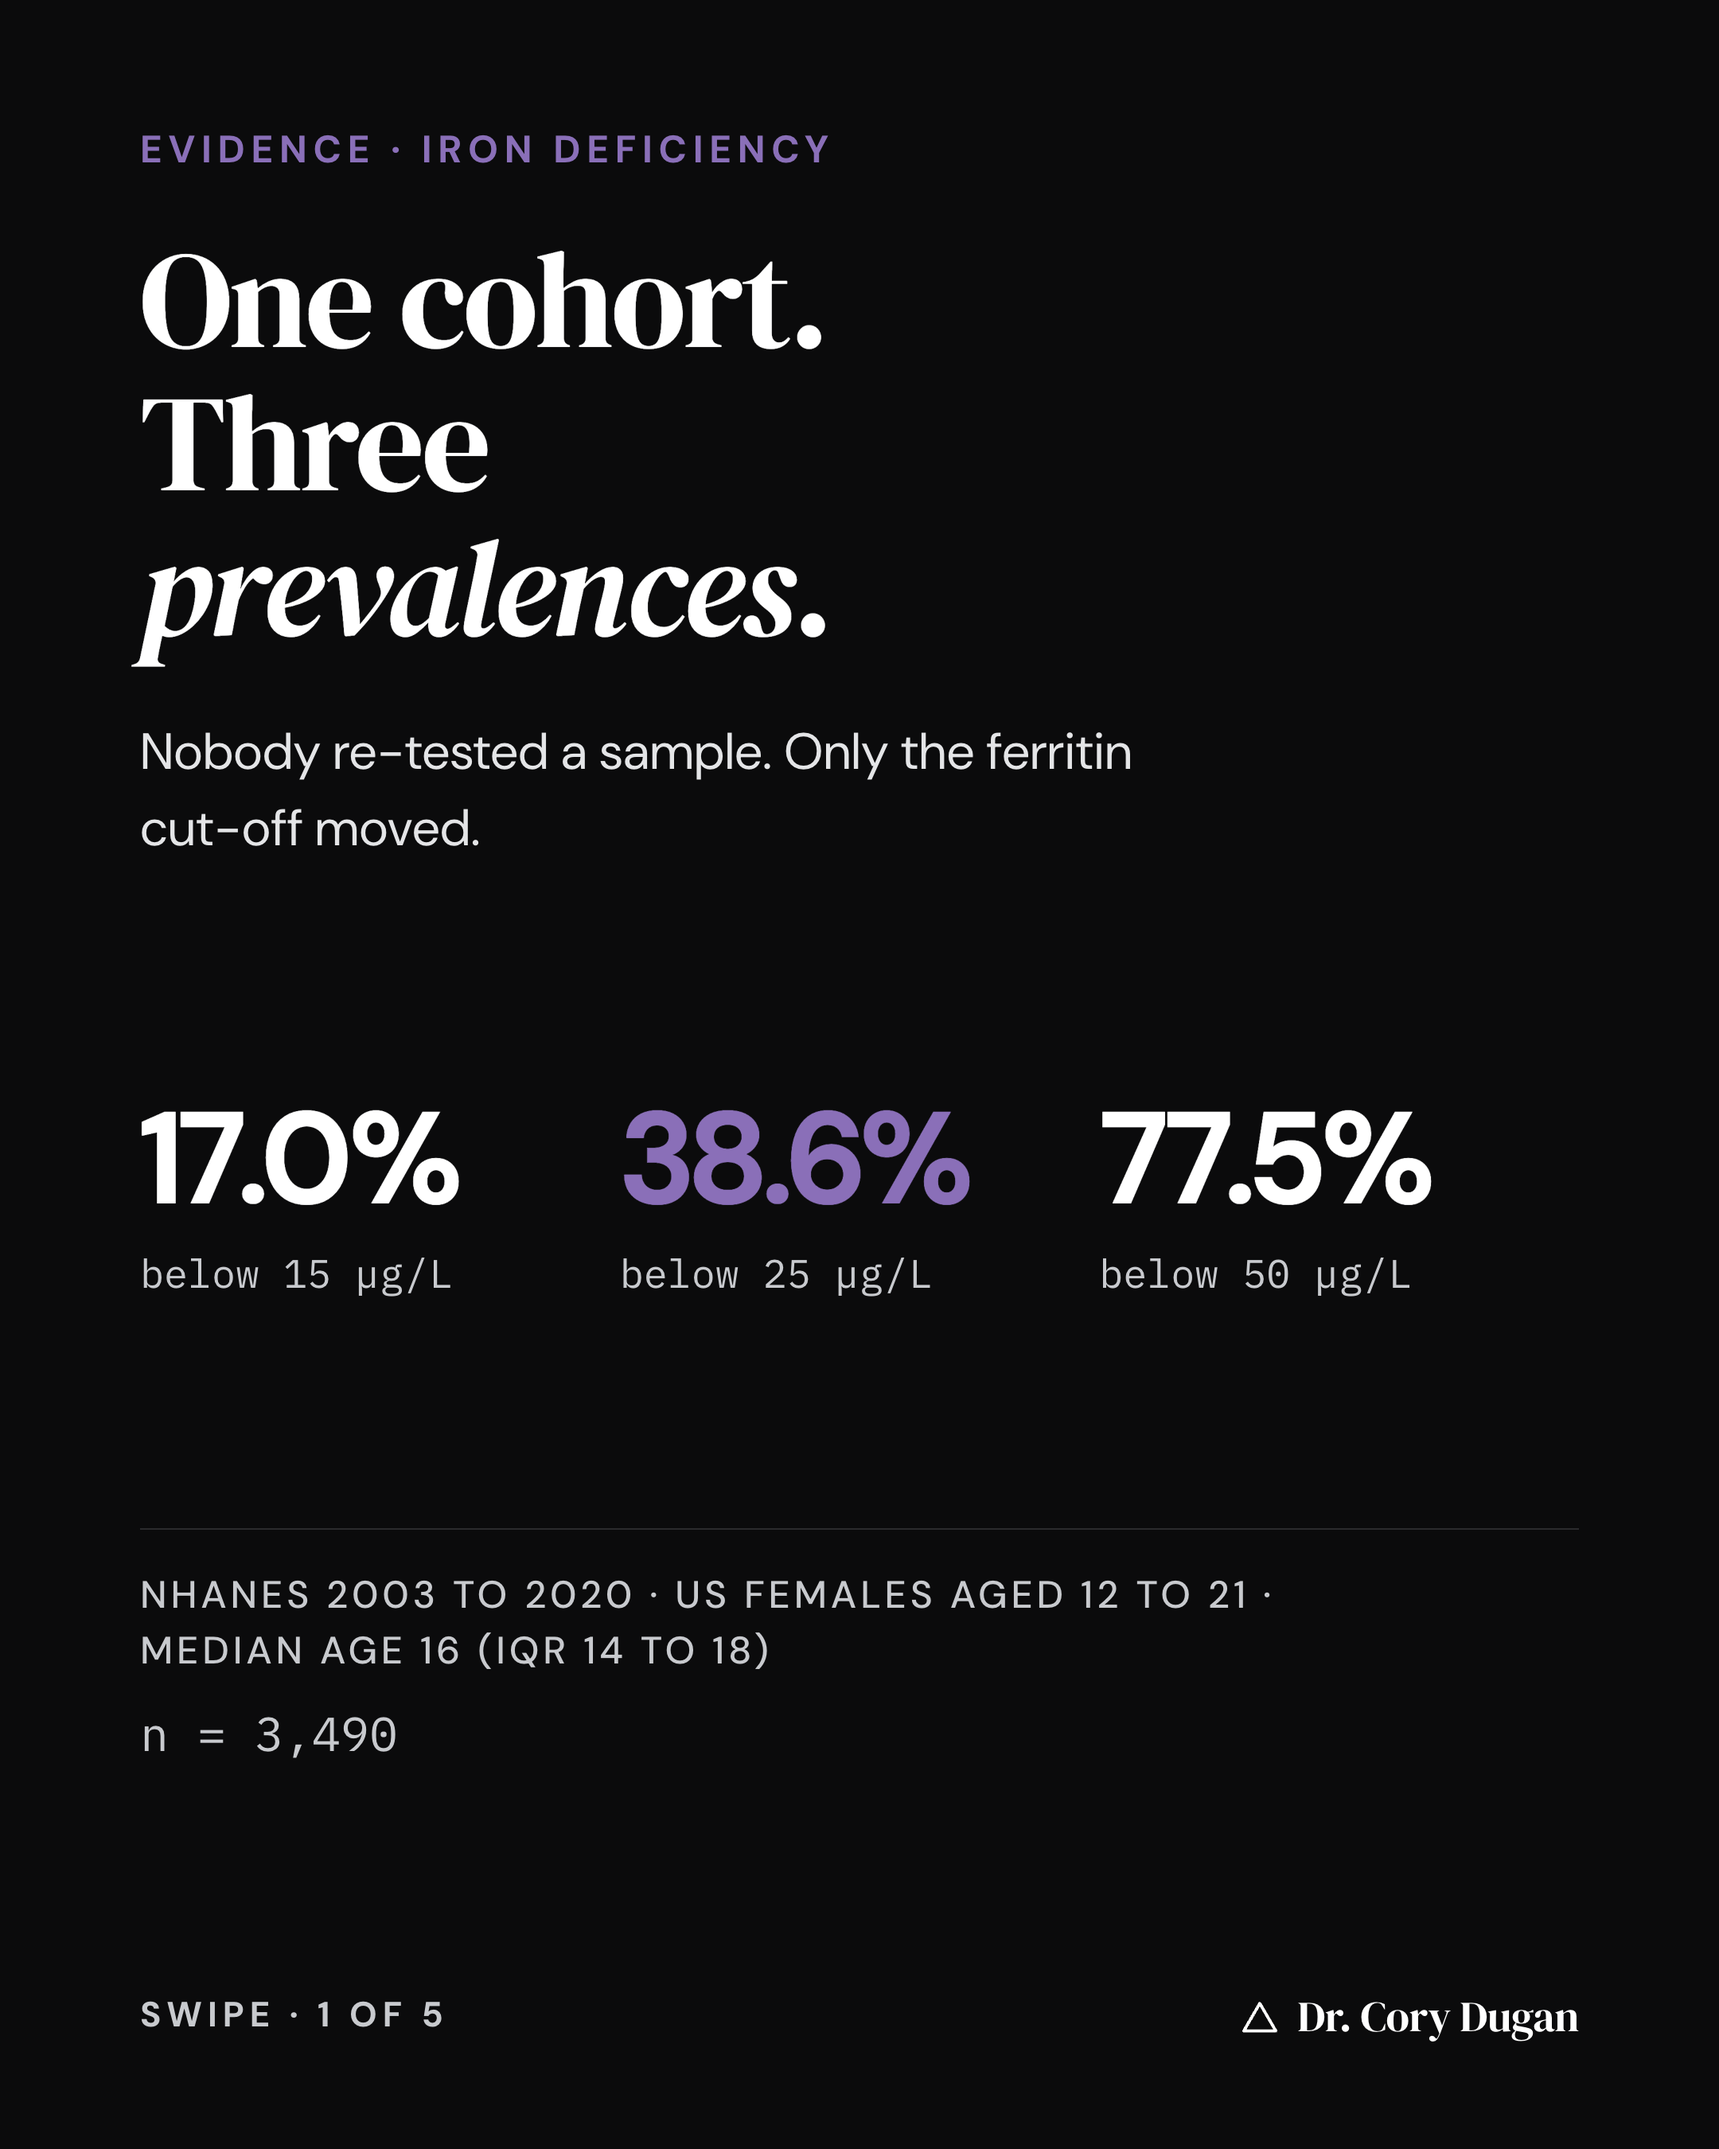
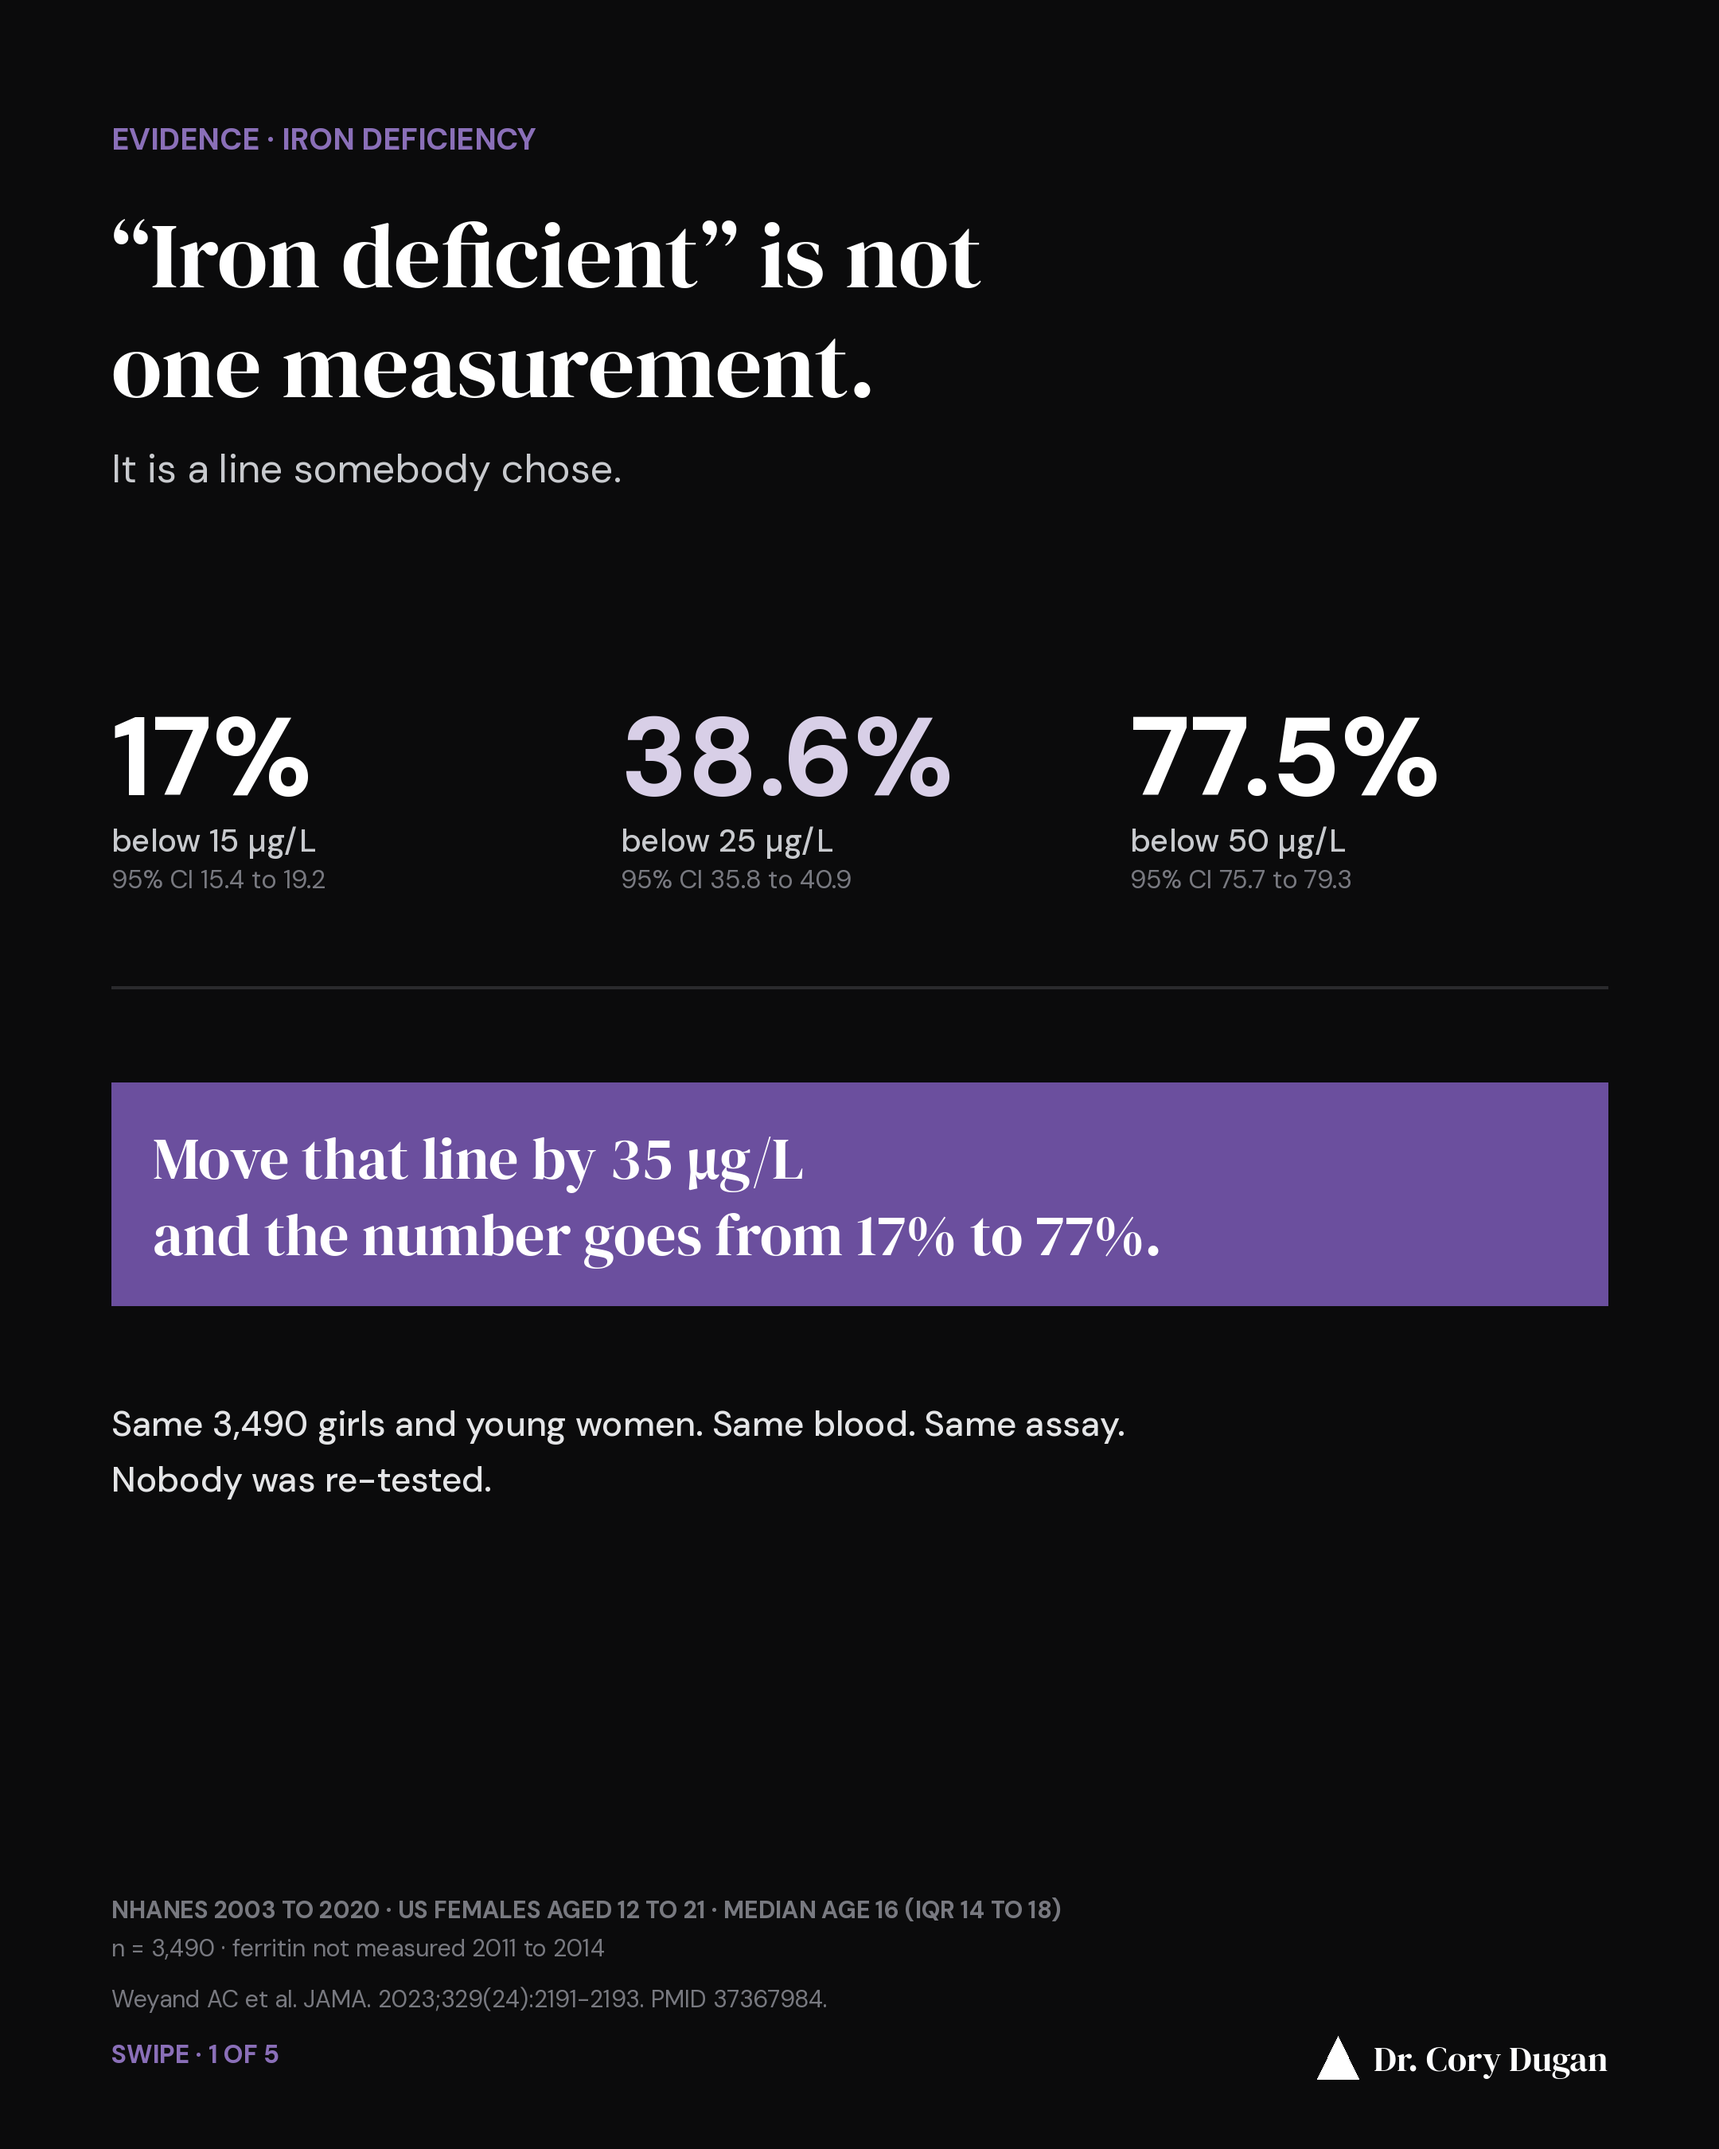
Gate the reels, reframe the ferritin cards, add the Barton chart
Reels: nine edits from science-evidence-checker. Reel 1 now names FERRITIN, because the reference-range argument holds there and not for haemoglobin (Braat 2024, PMID 38432242). Reel 2 says energy rather than oxygen, since four of six branches are not oxygen-transport stories and IRONWOMAN (PMID 40032294) found no change in VO2peak or haemoglobin mass. finding words and brittle nails deleted as unsupported, pica added. Ferritin set: cards 1 and 5 rebuilt, and the set has a generator for the first time, so it can be edited rather than only replaced. Benchmark research found the framing, not the density, was the problem: card 1 became a claim and card 5 became an action. Cards 2 to 4 unchanged. New: the Barton three-definitions chart, 62,685 women, 3.12 to 15.33 percent, every figure read off the PubMed abstract. Standing warning recorded: the Gemini Notebook Iron: Diagnosis corpus returned three fabricated PMIDs during the gate.

Claude-Session: https://claude.ai/code/session_01AAt67okTwb51aKx4o3k4jG

diff --git a/women-health/ferritin-threshold-20260812/build_cards.py b/women-health/ferritin-threshold-20260812/build_cards.py
@@ -1,0 +1,109 @@
+#!/usr/bin/env python3
+"""Cards 1 and 5 of the ferritin threshold set. Ink surface.
+
+WHY THIS FILE EXISTS. The 12 Aug set shipped as PNGs with no generator, so it
+could not be edited, only replaced. This rebuilds the two cards that changed and
+gives the set a source again. Cards 2, 3 and 4 are unchanged and still have no
+generator; rebuild them here when they next need editing.
+
+WHAT CHANGED, and why, 2026-08-18. Benchmark research against high-performing
+iron content found the set answered a question nobody had asked out loud. The
+diagnosis was framing, not density: a consultant haematologist posting correct
+thresholds drew 31 reactions in the same week an ADHD coach posting her own
+infusion story drew 369. So card 1 stopped being a headline and became a claim,
+and card 5 stopped issuing an academic instruction and became something a reader
+can do on Monday. Cards 2 to 4 were left alone; the 83.6% card is the best in
+the set.
+
+EVERY NUMBER VERIFIED 2026-08-18 against the open-access full text at
+PMC10300696, not against a summary:
+    Weyand AC, Chaitoff A, Freed GL, Sholzberg M, Choi SW, McGann PT.
+    JAMA. 2023;329(24):2191-2193. PMID 37367984. n = 3,490.
+"""
+import os
+from PIL import Image, ImageDraw, ImageFont
+
+W, H = 2160, 2700
+OUT = os.path.dirname(os.path.abspath(__file__))
+FIELD=(11,11,12); FG=(255,255,255); SUBTLE=(200,202,206); MUTED=(228,229,231)
+RULE=(42,42,45); ACCENT=(216,207,231); EYEBROW=(138,111,184); GRAPE=(107,79,158)
+DIM=(120,121,128)
+F=os.path.expanduser("~/Library/Fonts")
+def f(n,s): return ImageFont.truetype(os.path.join(F,n),s)
+SERIF=lambda s: f("DMSerifDisplay-Regular.ttf",s)
+SANS =lambda s: f("DMSans-Regular.ttf",s)
+SANS_M=lambda s: f("DMSans-Medium.ttf",s)
+SANS_B=lambda s: f("DMSans-Bold.ttf",s)
+M=140
+
+def lockup(d, y=2592):
+    wm="Dr. Cory Dugan"; w=d.textlength(wm,font=SERIF(44))
+    tx=W-M; dx=tx-w-70
+    d.polygon([(dx+26,y-34),(dx,y+20),(dx+52,y+20)],fill=FG)
+    d.text((tx,y-36),wm,font=SERIF(44),fill=FG,anchor="ra")
+
+def card1():
+    img=Image.new("RGB",(W,H),FIELD); d=ImageDraw.Draw(img,"RGBA")
+    d.text((M,150),"EVIDENCE · IRON DEFICIENCY",font=SANS_B(38),fill=EYEBROW)
+    d.text((M,240),"“Iron deficient” is not",font=SERIF(116),fill=FG)
+    d.text((M,378),"one measurement.",font=SERIF(116),fill=FG)
+    d.text((M,556),"It is a line somebody chose.",font=SANS(50),fill=SUBTLE)
+
+    figs=[("17%","below 15 µg/L","95% CI 15.4 to 19.2",False),
+          ("38.6%","below 25 µg/L","95% CI 35.8 to 40.9",True),
+          ("77.5%","below 50 µg/L","95% CI 75.7 to 79.3",False)]
+    x=M
+    for val,lab,ci,hi in figs:
+        d.text((x,860),val,font=SANS_B(140),fill=ACCENT if hi else FG)
+        d.text((x,1030),lab,font=SANS_M(40),fill=SUBTLE)
+        d.text((x,1084),ci,font=SANS(32),fill=DIM)
+        x+=640
+
+    d.line([(M,1240),(W-M,1240)],fill=RULE,width=4)
+    d.rectangle([M,1360,W-M,1640],fill=GRAPE)
+    d.text((M+52,1404),"Move that line by 35 µg/L",font=SERIF(74),fill=FG)
+    d.text((M+52,1500),"and the number goes from 17% to 77%.",font=SERIF(74),fill=FG)
+
+    d.text((M,1760),"Same 3,490 girls and young women. Same blood. Same assay.",
+           font=SANS_M(44),fill=MUTED)
+    d.text((M,1830),"Nobody was re-tested.",font=SANS_M(44),fill=MUTED)
+
+    d.text((M,2380),"NHANES 2003 TO 2020 · US FEMALES AGED 12 TO 21 · MEDIAN AGE 16 (IQR 14 TO 18)",
+           font=SANS_B(30),fill=DIM)
+    d.text((M,2428),"n = 3,490 · ferritin not measured 2011 to 2014",font=SANS(30),fill=DIM)
+    d.text((M,2492),"Weyand AC et al. JAMA. 2023;329(24):2191-2193. PMID 37367984.",
+           font=SANS(30),fill=DIM)
+    d.text((M,2560),"SWIPE · 1 OF 5",font=SANS_B(32),fill=EYEBROW)
+    lockup(d)
+    p=os.path.join(OUT,"s1-hook.png"); img.save(p); return p
+
+def card5():
+    img=Image.new("RGB",(W,H),FIELD); d=ImageDraw.Draw(img,"RGBA")
+    d.text((M,150),"WHAT TO DO WITH THIS",font=SANS_B(38),fill=EYEBROW)
+    d.text((M,250),"Ask for the number,",font=SERIF(116),fill=FG)
+    d.text((M,388),"not the verdict.",font=SERIF(116),fill=FG)
+
+    d.text((M,600),"Then ask which line they are measuring it against.",
+           font=SANS(52),fill=SUBTLE)
+
+    d.rectangle([M,780,W-M,1080],fill=GRAPE)
+    d.text((M+52,824),"Those are two different questions,",font=SERIF(72),fill=FG)
+    d.text((M+52,920),"and you are owed both answers.",font=SERIF(72),fill=FG)
+
+    d.text((M,1240),"A reference range is not a health target.",font=SANS_M(48),fill=MUTED)
+    d.text((M,1316),"It describes the group that was tested. If a large share of",font=SANS(44),fill=SUBTLE)
+    d.text((M,1380),"them were already deficient, their results sit inside the",font=SANS(44),fill=SUBTLE)
+    d.text((M,1444),"range you are being measured against.",font=SANS(44),fill=SUBTLE)
+
+    d.line([(M,1600),(W-M,1600)],fill=RULE,width=4)
+    d.text((M,1660),"If you are still exhausted after being told you are fine,",font=SANS_M(48),fill=MUTED)
+    d.text((M,1728),"that is information, not a contradiction.",font=SANS_M(48),fill=MUTED)
+
+    d.text((M,2428),"Weyand AC, Chaitoff A, Freed GL, Sholzberg M, Choi SW, McGann PT.",font=SANS(30),fill=DIM)
+    d.text((M,2472),"JAMA. 2023;329(24):2191-2193. PMID 37367984. NHANES 2003 to 2020, n = 3,490.",font=SANS(30),fill=DIM)
+    d.text((M,2560),"5 OF 5",font=SANS_B(32),fill=EYEBROW)
+    lockup(d)
+    p=os.path.join(OUT,"s5-position.png"); img.save(p); return p
+
+if __name__=="__main__":
+    for p in (card1(), card5()): print("wrote", p)

diff --git a/women-health/barton-definitions-20260818/build_chart.py b/women-health/barton-definitions-20260818/build_chart.py
@@ -1,0 +1,74 @@
+#!/usr/bin/env python3
+"""One cohort, three definitions. The annotated chart, ink surface.
+
+Every figure verified 2026-08-18 against the PubMed abstract via
+~/.claude/scripts/pubmed.py, NOT against a summary of it:
+    Barton JC, Wiener HW, Barton JC, Acton RT.
+    Prevalence of Iron Deficiency Using 3 Definitions Among Women in the US
+    and Canada. JAMA Netw Open. 2024;7(6):e2413967. PMID 38848068.
+
+The argument is Martens and DeLoughery's (ASH 2023, PMID 38066931): do not
+argue for a better number, show that the current one is an artefact of its own
+construction. So the chart holds the POPULATION fixed and moves only the line.
+"""
+import os
+from PIL import Image, ImageDraw, ImageFont
+
+W, H = 2160, 2700
+OUT = os.path.dirname(os.path.abspath(__file__))
+FIELD=(11,11,12); FG=(255,255,255); MUTED=(228,229,231); SUBTLE=(200,202,206)
+RULE=(42,42,45); ACCENT=(216,207,231); EYEBROW=(138,111,184); GRAPE=(107,79,158)
+F=os.path.expanduser("~/Library/Fonts")
+def f(n,s): return ImageFont.truetype(os.path.join(F,n),s)
+SERIF=lambda s: f("DMSerifDisplay-Regular.ttf",s)
+SANS =lambda s: f("DMSans-Regular.ttf",s)
+SANS_M=lambda s: f("DMSans-Medium.ttf",s)
+SANS_B=lambda s: f("DMSans-Bold.ttf",s)
+
+# One short line each. The first build overflowed the right edge and pushed two
+# of the three counts off the card; the explanation moved below the axis.
+BARS=[("HEIRS", "TSAT <10% AND ferritin <15",  3.12, "1,957 women"),
+      ("WHO",   "ferritin <15",                7.43, "4,659 women"),
+      ("IDE",   "ferritin <25",               15.33, "9,611 women")]
+
+img=Image.new("RGB",(W,H),FIELD); d=ImageDraw.Draw(img,"RGBA")
+M=140
+d.text((M,150),"EVIDENCE · IRON DEFICIENCY",font=SANS_B(38),fill=EYEBROW)
+d.text((M,230),"Same 62,685 women.",font=SERIF(120),fill=FG)
+d.text((M,370),"Three answers.",font=SERIF(120),fill=FG)
+d.text((M,545),"Nobody was re-tested. Only the definition changed.",font=SANS(46),fill=SUBTLE)
+
+TOP,BOT = 760, 1960
+MAXV=16.0
+BW=380; GAP=(W-2*M-3*BW)//2
+for i,(name,defn,val,n) in enumerate(BARS):
+    x=M+i*(BW+GAP)
+    h=int((BOT-TOP)*(val/MAXV))
+    col = ACCENT if i==2 else GRAPE if i==1 else (58,58,66)
+    d.rectangle([x,BOT-h,x+BW,BOT],fill=col)
+    d.text((x,BOT-h-118),f"{val:.2f}%",font=SANS_B(96),
+           fill=FG if i==2 else MUTED)
+    d.text((x,BOT+34),name,font=SANS_B(52),fill=FG)
+    d.text((x,BOT+108),defn,font=SANS(36),fill=SUBTLE)
+    d.text((x,BOT+160),n,font=SANS(34),fill=(120,121,128))
+d.line([(M,BOT),(W-M,BOT)],fill=RULE,width=4)
+d.text((M,BOT+250),"IDE is the ferritin level below which the marrow is already short of iron for making red cells.",
+       font=SANS(34),fill=SUBTLE)
+
+d.rectangle([M,2300,W-M,2470],fill=GRAPE)
+d.text((M+44,2334),"Nothing about these women changed.",font=SERIF(64),fill=FG)
+d.text((M+44,2412),"The prevalence rose 4.9-fold, 95% CI 4.7 to 5.2, P<.001.",
+       font=SANS_M(38),fill=(232,226,242))
+d.text((M,2545),"Barton JC, Wiener HW, Barton JC, Acton RT. JAMA Netw Open. 2024;7(6):e2413967. PMID 38848068.",
+       font=SANS(30),fill=(110,111,117))
+d.text((M,2592),"HEIRS screening study, 5 field centres, US and Canada. Women aged 25 and over, mean age 49.6.",
+       font=SANS(30),fill=(110,111,117))
+# right-align the lockup as a GROUP: measure the wordmark, then place the delta
+# to its left. The first build drew the delta on top of the text.
+_wm="Dr. Cory Dugan"; _w=d.textlength(_wm,font=SERIF(44))
+_tx=W-M; _dx=_tx-_w-70
+d.polygon([(_dx+26,2558),(_dx,2612),(_dx+52,2612)],fill=FG)
+d.text((_tx,2556),_wm,font=SERIF(44),fill=FG,anchor="ra")
+
+p=os.path.join(OUT,"barton-three-definitions.png")
+img.save(p); print("wrote",p,img.size)
